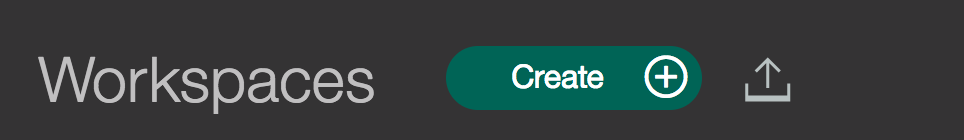
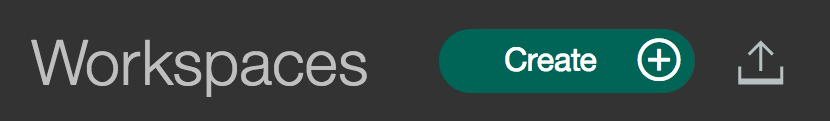
one last attempt to center and resize images

Changed region(s): [[0.0301, 0.2231, 0.8434, 0.8182], [0.8735, 0.3471, 0.9639, 0.719]]

diff --git a/README.md b/README.md
@@ -55,13 +55,17 @@ Create the following services:
 
 Launch the **Watson Conversation** tool. Use the **import** icon button on the right
 
-<div style="text-align:center"><img src="doc/source/images/import_conversation_workspace.png" width="50%"></div>
+<p align="center">
+  <img width="400" height="55" src="doc/source/images/import_conversation_workspace.png">
+</p>
 
 Find the local version of `data/workspace.json` and select **Import**. Find the
 **Workspace ID** by clicking on the context menu of the new workspace, and selecting
 **View details**, save this ID for later.
 
-<div style="text-align:center"><img src="doc/source/images/open_conversation_menu.png" width="75%"></div>
+<p align="center">
+  <img width="400" height="250" src="doc/source/images/open_conversation_menu.png">
+</p>
 
 *Optionally*, to view the conversation dialog select the workspace and choose the
 **Dialog** tab, here's a snippet of the dialog:
@@ -73,13 +77,17 @@ Find the local version of `data/workspace.json` and select **Import**. Find the
 Launch the **Watson Conversation** tool. Create a **new data collection** and give the data
 collection a unique name.
 
-<div style="text-align:center"><img src="doc/source/images/name_discovery.png" width="50%"></div>
+<p align="center">
+  <img width="400" height="300" src="doc/source/images/name_discovery.png">
+</p>
 
 Seed the content by selecting **Add data to this collection** in the dialog,
 choose the HTML files under `data/ibm_store_html/`. When completed, save the
 **environment_id** and **configuration_id**.
 
-<div style="text-align:center"><img src="doc/source/images/view_discovery_ids.png" width="75%"></div>
+<p align="center">
+  <img width="800" height="225" src="doc/source/images/view_discovery_ids.png">
+</p>
 
 ## 5. Configure Slack
 
@@ -96,7 +104,9 @@ Give the bot a fun name. Once created save the **API Token** that is generated
 
 Run `/invite <botame>` in a channel to invite the bot, or message it directly.
 
-<div style="text-align:center"><img src="doc/source/images/invite_bot.png" width="50%"></div>
+<p align="center">
+  <img width="400" height="125" src="doc/source/images/invite_bot.png">
+</p>
 
 ## 6. Run the application
 
